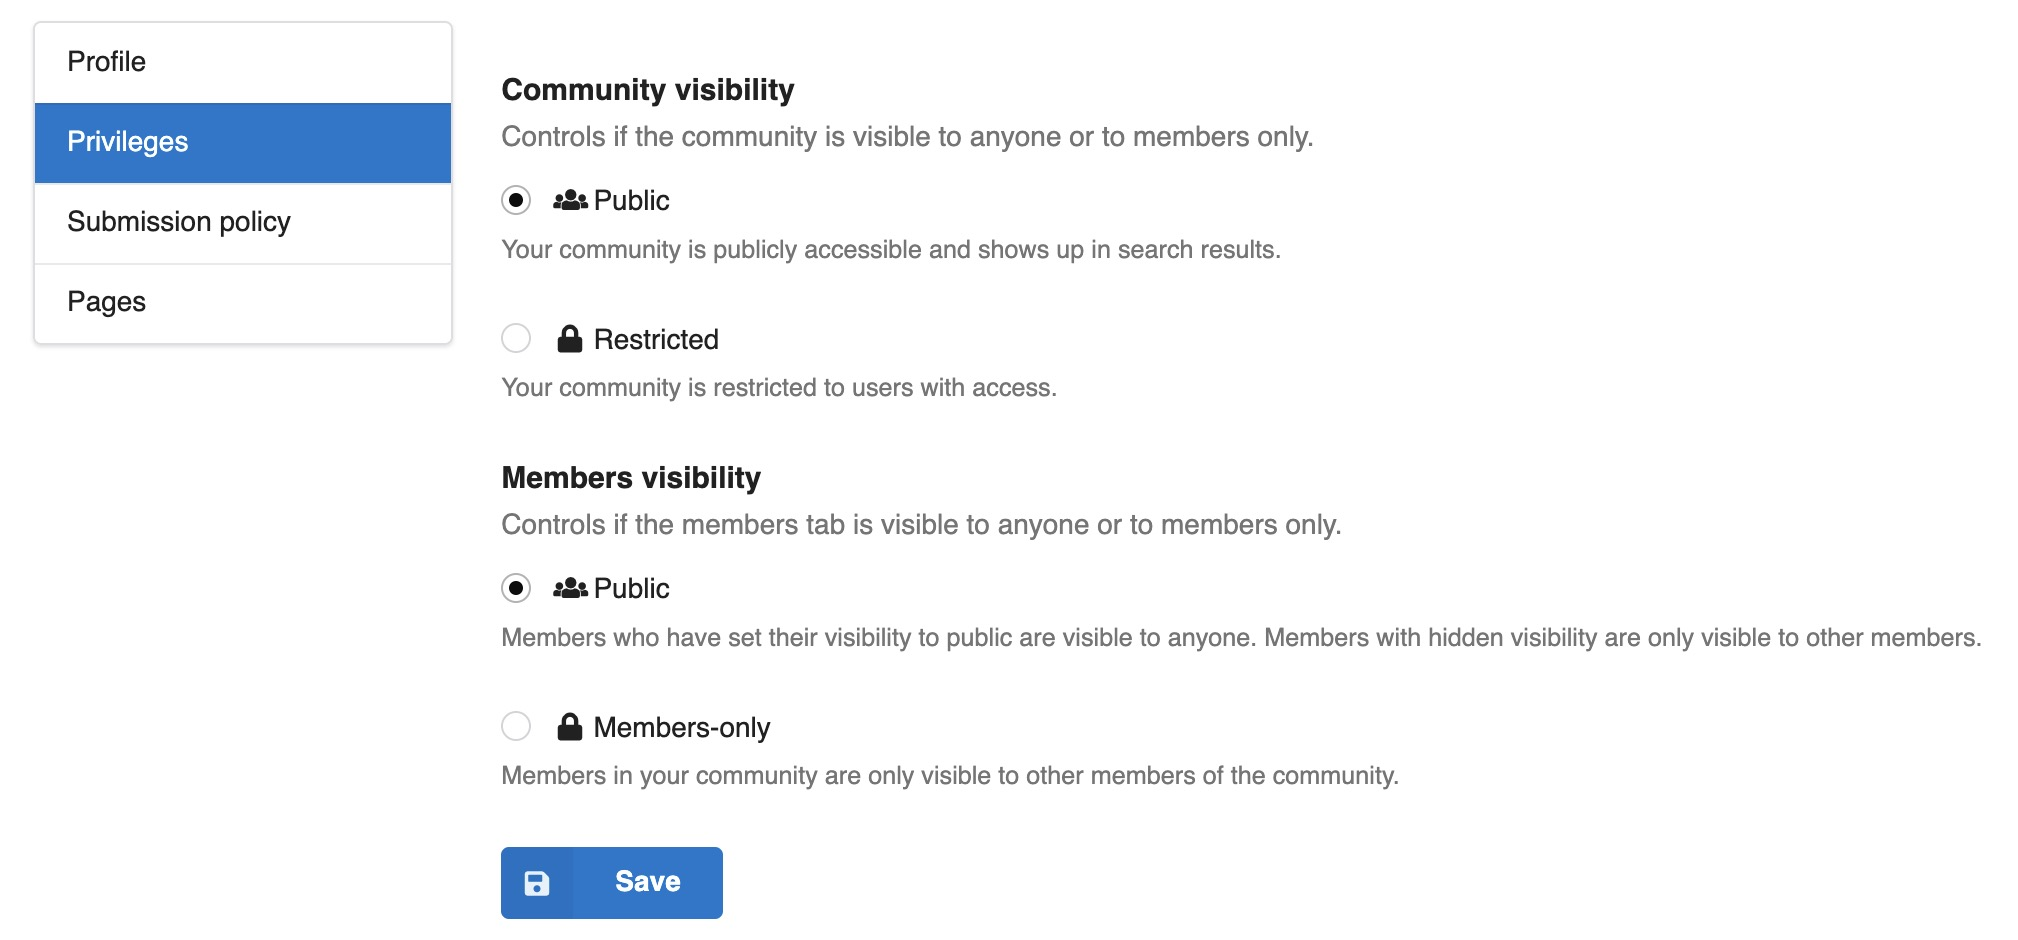
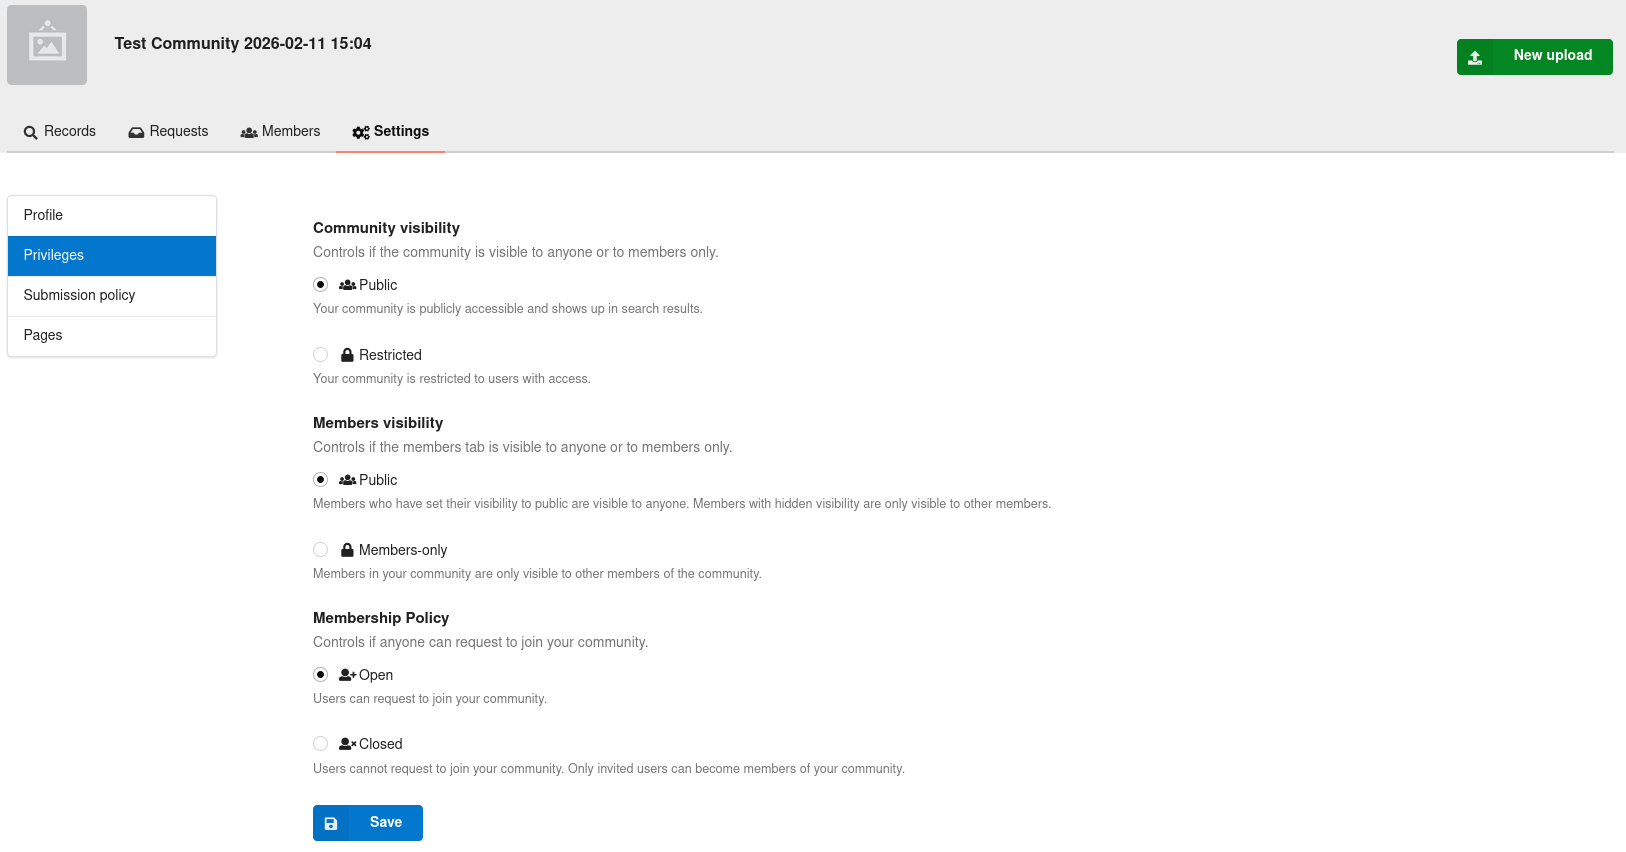
feat: document membership-request + create reference for settings

diff --git a/docs/reference/settings.md b/docs/reference/settings.md
@@ -1,0 +1,143 @@
+# Notable configuration settings and feature flags
+
+## ``TRUSTED_HOSTS``
+
+Invenio has a configuration option called ``TRUSTED_HOSTS`` which controls which hosts/domain names can be served. A client request to a web server usually includes the domain name in the Host HTTP header:
+
+```
+GET /
+Host: example.org
+...
+```
+
+The web server uses that for instance to host several websites on the same domain. Also, the host header is usually used in a load balanced environment to generate links with the right domain name.
+
+An attacker has full control of the host header and can thus change it to whatever they like, and for instance have the application generate links to a completely different domain.
+
+Normally your load balancer/web server should only route requests with a white-listed set of hosts to your application. It is however very easy to misconfigure this in your web server, and thus Invenio includes a protective measure.
+
+Simply set TRUSTED_HOSTS to a list of allowed hosts/domain names:
+
+```
+TRUSTED_HOSTS = ['www.example.org']
+```
+
+Failing to properly configure this variable will cause the error `Bad Request Host x.x.x.x is not trusted.` when starting the web app.
+
+## ``PROXYFIX_CONFIG``
+
+Invenio is commonly used with both a load balancer and a web server in front of the application server. The load balancer and web server both work as proxies, which means that the clients remote address usually gets added in the X-Forwarded-For HTTP header. Invenio will automatically extract the clients IP address from the HTTP header, however to prevent clients from doing IP spoofing you need to specify exactly how many proxies you have in front of you application server:
+
+```
+PROXYFIX_CONFIG={'x_for': 1, 'x_proto': 1}
+```
+
+You can find out more about the configuration options in [invenio-base](https://github.com/inveniosoftware/invenio-base/blob/f868e5e91cef7a6d4c7edfdb76669443484da331/invenio_base/wsgi.py)
+
+## Secret keys
+
+Probably the most important security measure is to have strong random secret keys set for your InvenioRDM instance.
+
+Good practices:
+
+- Never commit your secrets in the source code repository (or any other password for that sake).
+- Use different secrets for different deployments (testing, staging, production).
+
+List of secrets:
+
+- `SECRET_KEY`: The secret key is used for instance to sign user session ids and encrypt certain database fields. The secret key must be kept secret. If the key is leaked or stolen somehow, you should immediately change it to a new key.
+- `SECURITY_LOGIN_SALT`: The salt value is used when generating login links/tokens.
+- `CSRF_SECRET_SALT`: The salt value is used when generating login CSRF tokens.
+
+```python
+SECRET_KEY = '..put a long random value here..'
+SECURITY_LOGIN_SALT = '..put a long random value here..'
+CSRF_SECRET_SALT = '..put a long random value here..'
+```
+
+## Content Security Policy (CSP)
+
+Content Security Policy (CSP) is an added layer of security that helps to detect and mitigate certain types of attacks, including Cross-Site Scripting (XSS) and data injection attacks.
+To configure such headers, change the var `APP_DEFAULT_SECURE_HEADERS` in ``invenio.cfg``:
+
+```python
+APP_DEFAULT_SECURE_HEADERS = {
+    ...
+}
+```
+
+## Mathematical formulas (MathJax)
+
+To render mathematical formulas on record landing pages, configure MathJax in your `invenio.cfg`:
+
+```python
+THEME_MATHJAX_CDN = (
+    "//cdnjs.cloudflare.com/ajax/libs/mathjax/3.2.2/es5/tex-mml-chtml.js"
+    "?config=TeX-AMS-MML_HTMLorMML"
+)
+```
+
+Since MathJax is loaded from a CDN, make sure your Content Security Policy allows `cdnjs.cloudflare.com` in `APP_DEFAULT_SECURE_HEADERS`.
+
+## Citation styles
+
+InvenioRDM supports citations styles defined in the [CSL 1.0.1 specifications](https://docs.citationstyles.org/en/v1.0.1/specification.html). You can find the list of all possible citation styles [here](https://github.com/citation-style-language/styles/tree/v1.0.1).
+
+In the record landing page, you can display a subset of the available styles. In your `invenio.cfg` change:
+
+```
+RDM_CITATION_STYLES = [
+     ('chicago-annotated-bibliography', _('Chicago')),
+     ('ieee', _('IEEE')),
+     ('science', _('Science')),
+     ('apa', _('APA')),
+     ('cell', _('Cell')),
+]
+```
+
+By changing the list above, these styles will be visible in the record landing page and the user can click on them to change citation style.
+
+You can change the default citation style used when loading the record landing page by setting:
+
+```
+RDM_CITATION_STYLES_DEFAULT = 'chicago-annotated-bibliography'
+```
+
+## Download all files button
+
+*Introduced in InvenioRDM v11*
+
+!!! warning "Blocking connection and large files"
+     In contrast to other file-serving endpoints, this functionality does not offload the response to nginx, which means that for very large files and slower client connections these might become long-running blocking requests. You can mitigate these issues either via rate-limiting or setting up dedicated resources for serving this type of requests.
+
+To enable/disable the UI button and backend functionality for being able to download all of a record's files as a single ZIP file, you can set in your `invenio.cfg` the following config:
+
+```python
+RDM_ARCHIVE_DOWNLOAD_ENABLED = True
+```
+
+## Membership requests
+
+Enable the feature i.e., allow communities to decide if users can request to join them:
+
+```
+COMMUNITIES_ALLOW_MEMBERSHIP_REQUESTS = False
+"""Feature flag for membership request."""
+```
+
+Set lifespan of such requests:
+
+```
+COMMUNITIES_MEMBERSHIP_REQUESTS_EXPIRES_IN = timedelta(days=30)
+"""Default amount of time before a membership request expires."""
+```
+
+**Other relevant configurations**
+
+Location: [https://github.com/inveniosoftware/invenio-communities/blob/master/invenio_communities/config.py](https://github.com/inveniosoftware/invenio-communities/blob/master/invenio_communities/config.py)
+
+Prefix: `COMMUNITIES_MEMBERSHIP_REQUESTS_`
+
+**Usage**
+
+See [Members](../use/communities.md#members) section for details.

diff --git a/docs/operate/customize/configuration.md b/docs/operate/customize/configuration.md
@@ -42,120 +42,6 @@ In particular, you should NEVER set secrets or credentials in the configuration 
 
 The credentials you do find in the ``invenio.cfg`` file are for the default development server.
 
-## Notable configuration settings
+## Reference
 
-### ``TRUSTED_HOSTS``
-
-Invenio has a configuration option called ``TRUSTED_HOSTS`` which controls which hosts/domain names can be served. A client request to a web server usually includes the domain name in the Host HTTP header:
-
-```
-GET /
-Host: example.org
-...
-```
-
-The web server uses that for instance to host several websites on the same domain. Also, the host header is usually used in a load balanced environment to generate links with the right domain name.
-
-An attacker has full control of the host header and can thus change it to whatever they like, and for instance have the application generate links to a completely different domain.
-
-Normally your load balancer/web server should only route requests with a white-listed set of hosts to your application. It is however very easy to misconfigure this in your web server, and thus Invenio includes a protective measure.
-
-Simply set TRUSTED_HOSTS to a list of allowed hosts/domain names:
-
-```
-TRUSTED_HOSTS = ['www.example.org']
-```
-
-Failing to properly configure this variable will cause the error `Bad Request Host x.x.x.x is not trusted.` when starting the web app.
-
-### ``PROXYFIX_CONFIG``
-
-Invenio is commonly used with both a load balancer and a web server in front of the application server. The load balancer and web server both work as proxies, which means that the clients remote address usually gets added in the X-Forwarded-For HTTP header. Invenio will automatically extract the clients IP address from the HTTP header, however to prevent clients from doing IP spoofing you need to specify exactly how many proxies you have in front of you application server:
-
-```
-PROXYFIX_CONFIG={'x_for': 1, 'x_proto': 1}
-```
-
-You can find out more about the configuration options in [invenio-base](https://github.com/inveniosoftware/invenio-base/blob/f868e5e91cef7a6d4c7edfdb76669443484da331/invenio_base/wsgi.py)
-
-### Secret keys
-
-Probably the most important security measure is to have strong random secret keys set for your InvenioRDM instance.
-
-Good practices:
-
-- Never commit your secrets in the source code repository (or any other password for that sake).
-- Use different secrets for different deployments (testing, staging, production).
-
-List of secrets:
-
-- `SECRET_KEY`: The secret key is used for instance to sign user session ids and encrypt certain database fields. The secret key must be kept secret. If the key is leaked or stolen somehow, you should immediately change it to a new key.
-- `SECURITY_LOGIN_SALT`: The salt value is used when generating login links/tokens.
-- `CSRF_SECRET_SALT`: The salt value is used when generating login CSRF tokens.
-
-```python
-SECRET_KEY = '..put a long random value here..'
-SECURITY_LOGIN_SALT = '..put a long random value here..'
-CSRF_SECRET_SALT = '..put a long random value here..'
-```
-
-### Content Security Policy (CSP)
-
-Content Security Policy (CSP) is an added layer of security that helps to detect and mitigate certain types of attacks, including Cross-Site Scripting (XSS) and data injection attacks.
-To configure such headers, change the var `APP_DEFAULT_SECURE_HEADERS` in ``invenio.cfg``:
-
-```python
-APP_DEFAULT_SECURE_HEADERS = {
-    ...
-}
-```
-
-### Mathematical formulas (MathJax)
-
-To render mathematical formulas on record landing pages, configure MathJax in your `invenio.cfg`:
-
-```python
-THEME_MATHJAX_CDN = (
-    "//cdnjs.cloudflare.com/ajax/libs/mathjax/3.2.2/es5/tex-mml-chtml.js"
-    "?config=TeX-AMS-MML_HTMLorMML"
-)
-```
-
-Since MathJax is loaded from a CDN, make sure your Content Security Policy allows `cdnjs.cloudflare.com` in `APP_DEFAULT_SECURE_HEADERS`.
-
-### Citation styles
-
-InvenioRDM supports citations styles defined in the [CSL 1.0.1 specifications](https://docs.citationstyles.org/en/v1.0.1/specification.html). You can find the list of all possible citation styles [here](https://github.com/citation-style-language/styles/tree/v1.0.1).
-
-In the record landing page, you can display a subset of the available styles. In your `invenio.cfg` change:
-
-```
-RDM_CITATION_STYLES = [
-     ('chicago-annotated-bibliography', _('Chicago')),
-     ('ieee', _('IEEE')),
-     ('science', _('Science')),
-     ('apa', _('APA')),
-     ('cell', _('Cell')),
-]
-```
-
-By changing the list above, these styles will be visible in the record landing page and the user can click on them to change citation style.
-
-You can change the default citation style used when loading the record landing page by setting:
-
-```
-RDM_CITATION_STYLES_DEFAULT = 'chicago-annotated-bibliography'
-```
-
-### Download all files button
-
-*Introduced in InvenioRDM v11*
-
-!!! warning "Blocking connection and large files"
-     In contrast to other file-serving endpoints, this functionality does not offload the response to nginx, which means that for very large files and slower client connections these might become long-running blocking requests. You can mitigate these issues either via rate-limiting or setting up dedicated resources for serving this type of requests.
-
-To enable/disable the UI button and backend functionality for being able to download all of a record's files as a single ZIP file, you can set in your `invenio.cfg` the following config:
-
-```python
-RDM_ARCHIVE_DOWNLOAD_ENABLED = True
-```
+InvenioRDM is a *large* project with many modules and many settings. We curated the feature flags and most notable settings on the [Notable Configuration Settings](../../reference/settings.md) page. To find other specialized settings, look for the `config.py` file in the [relevant InvenioRDM module](../../maintenance/modules.md)'s source code.

diff --git a/docs/use/communities.md b/docs/use/communities.md
@@ -63,6 +63,13 @@ This setting determines who can see the list of members within your community.
 - **Public**: Members who have chosen to set their individual profile visibility to "public" will be visible to anyone. Members with "hidden" visibility will only be visible to other members of the community.
 - **Members-only**: Only other members of your community can view the list of members. No member information will be publicly displayed.
 
+#### Membership Policy
+
+This setting determines if authenticated users can request to join your community. It will only be available if your instance [enabled the feature](../reference/settings.md#membership-requests).
+
+- **Open**: Any authenticated user can request to join your community. This is only possible if your community has a **Public** visibility.
+- **Closed**: No one can request to join your community. Members can only be added by invitation. This is the default for newly created communities.
+
 ![Community settings Privileges](imgs/communities/community-settings-privileges.jpg)
 
 ### Submission Policy
@@ -137,6 +144,15 @@ You can invite new members to collaborate in your community. The search autocomp
 This operation will create an invitation request and the user will receive an e-mail [notification](notifications.md). Once approved, the user will become a member. Be aware that **groups will be immediately added**, without request or notification.
 
 ![Community invite](imgs/communities/community-invite.jpg)
+
+If your community's [membership policy](#membership-policy) is **Open**, users may request to join your community.
+
+![Request membership button](imgs/communities/community-request-membership.png)
+
+These requests will notify the owners and managers of the community. If you have one of those roles, you can then assess (accept/decline) the requests in the dedicated "Membership requests" section that lists them or on the request page itself like any other request. The requester may cancel the request on their end too.
+
+![Assess membership requests](imgs/communities/community-list-membership-requests.png)
+
 
 ## Requests
 

diff --git a/docs/releases/v14/version-v14.0.md b/docs/releases/v14/version-v14.0.md
@@ -82,6 +82,16 @@ Jobs can now send email notifications to configured recipients when runs complet
 
 See [Job Notifications](../../use/administration.md#job-notifications) for usage details and [Email Notification Templates](../../operate/customize/jobs.md#email-notification-templates) for customization options.
 
+### Membership requests
+
+Users can now request to become members of communities. This feature is opt-in per community and feature-gated at the instance level.
+
+![Request membership](../../use/imgs/communities/community-request-membership.png)
+
+It should lessen the administrative burden of inviting new users and further let them self-organize around their interests.
+
+Enabling the feature is just a matter of turning on a [configuration variable](../../reference/settings.md#membership-requests). See these links for [how to enable it on a per community basis](../../use/communities.md#membership-policy) and what the [usage flow](../../use/communities.md#members) is like.
+
 ### Miscellaneous additions
 
 Here is a quick summary of the other improvements in this release:

diff --git a/docs/reference/index.md b/docs/reference/index.md
@@ -5,7 +5,8 @@
 ## Guides
 
 - **[CLI](cli.md)**: A reference guide to the commands provided by the Invenio-CLI tool.
-- **[Metadata Reference](metadata.md)**: A reference guide for the internal metadata schema of bibliographic records in InvenioRDM.
-- **[OAI-PMH](oai_pmh.md)**: A reference guide for the OAI-PMH functionality which InvenioRDM exposes.
-- **[REST API](rest_api_index.md)**: A reference guide for all the REST APIs that InvenioRDM exposes.
-- **[Virtual environments](virtualenvs.md)**: A reference guide for Python virtual environments.
+- **[Metadata Reference](metadata.md)**: A reference guide to the internal metadata schema of bibliographic records in InvenioRDM.
+- **[OAI-PMH](oai_pmh.md)**: A reference guide to the OAI-PMH functionality which InvenioRDM exposes.
+- **[REST API](rest_api_index.md)**: A reference guide to all the REST APIs that InvenioRDM exposes.
+- **[Virtual environments](virtualenvs.md)**: A reference guide to Python virtual environments.
+- **[Configuration settings](settings.md)**: A reference guide to the main configuration settings and feature flags.

diff --git a/docs/releases/v11/version-v11.0.0.md b/docs/releases/v11/version-v11.0.0.md
@@ -78,7 +78,7 @@ This change only affects new accounts, already existing accounts will keep their
 
 ### Download all files
 
-You can now enable downloading of a single archive containing all of a record's uploaded files at once. Read more [here](../../operate/customize/configuration.md#download-all-files-button).
+You can now enable downloading of a single archive containing all of a record's uploaded files at once. Read more [here](../../reference/settings.md#download-all-files-button).
 
 ### Deployment
 